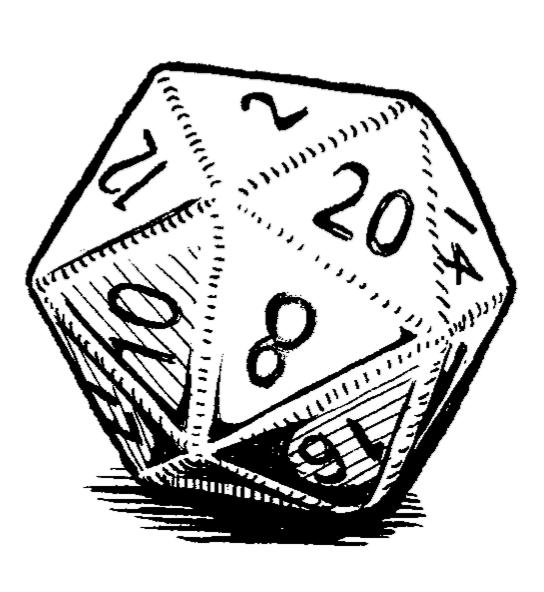
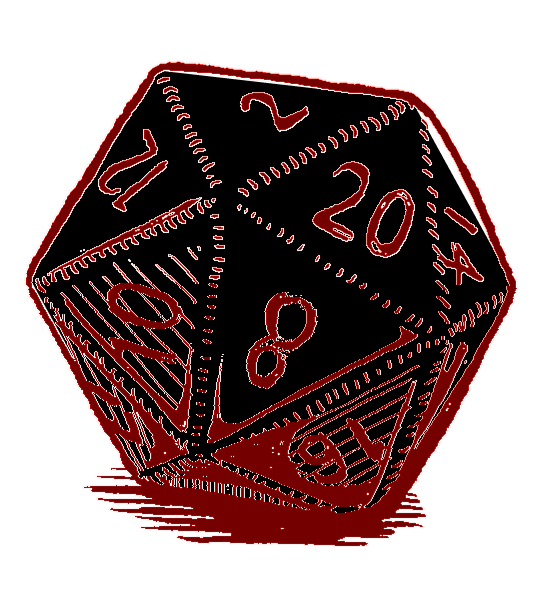
fix image

diff --git a/index.html b/index.html
@@ -28,7 +28,9 @@
             <div class="form-section" id="form1">
                 <div class="form-header">
                     <h1>Ficha Prisma</h1>
-                    <button class="dice-button" onclick="rollDice()" title="Rolar D10">🎲</button>
+                    <button class="dice-button" onclick="rollDice()" title="Rolar D10">
+                        <img src="images/dado-imagem.png" alt="Dado">
+                    </button>
                 </div>
 
                 <div class="form-row">
@@ -355,7 +357,9 @@
             <div class="form-section" id="form2">
                 <div class="form-header">
                     <h1>Ficha Cora</h1>
-                    <button class="dice-button" onclick="rollDice()" title="Rolar D10">🎲</button>
+                    <button class="dice-button" onclick="rollDice()" title="Rolar D10">
+                        <img src="images/dado-imagem.png" alt="Dado">
+                    </button>
                 </div>
 
                 <div class="form-row">
@@ -682,7 +686,9 @@
             <div class="form-section" id="form3">
                 <div class="form-header">
                     <h1>Ficha Lu chen</h1>
-                    <button class="dice-button" onclick="rollDice()" title="Rolar D10">🎲</button>
+                    <button class="dice-button" onclick="rollDice()" title="Rolar D10">
+                        <img src="images/dado-imagem.png" alt="Dado">
+                    </button>
                 </div>
 
                 <div class="form-row">
@@ -1009,7 +1015,9 @@
             <div class="form-section" id="form4">
                 <div class="form-header">
                     <h1>Ficha Todi Tooka</h1>
-                    <button class="dice-button" onclick="rollDice()" title="Rolar D10">🎲</button>
+                    <button class="dice-button" onclick="rollDice()" title="Rolar D10">
+                        <img src="images/dado-imagem.png" alt="Dado">
+                    </button>
                 </div>
 
                 <div class="form-row">
@@ -1336,7 +1344,9 @@
             <div class="form-section" id="form5">
                 <div class="form-header">
                     <h1>Ficha de Personagem 5</h1>
-                    <button class="dice-button" onclick="rollDice()" title="Rolar D10">🎲</button>
+                    <button class="dice-button" onclick="rollDice()" title="Rolar D10">
+                        <img src="images/dado-imagem.png" alt="Dado">
+                    </button>
                 </div>
                 <div class="form-row">
                     <div class="form-group">
